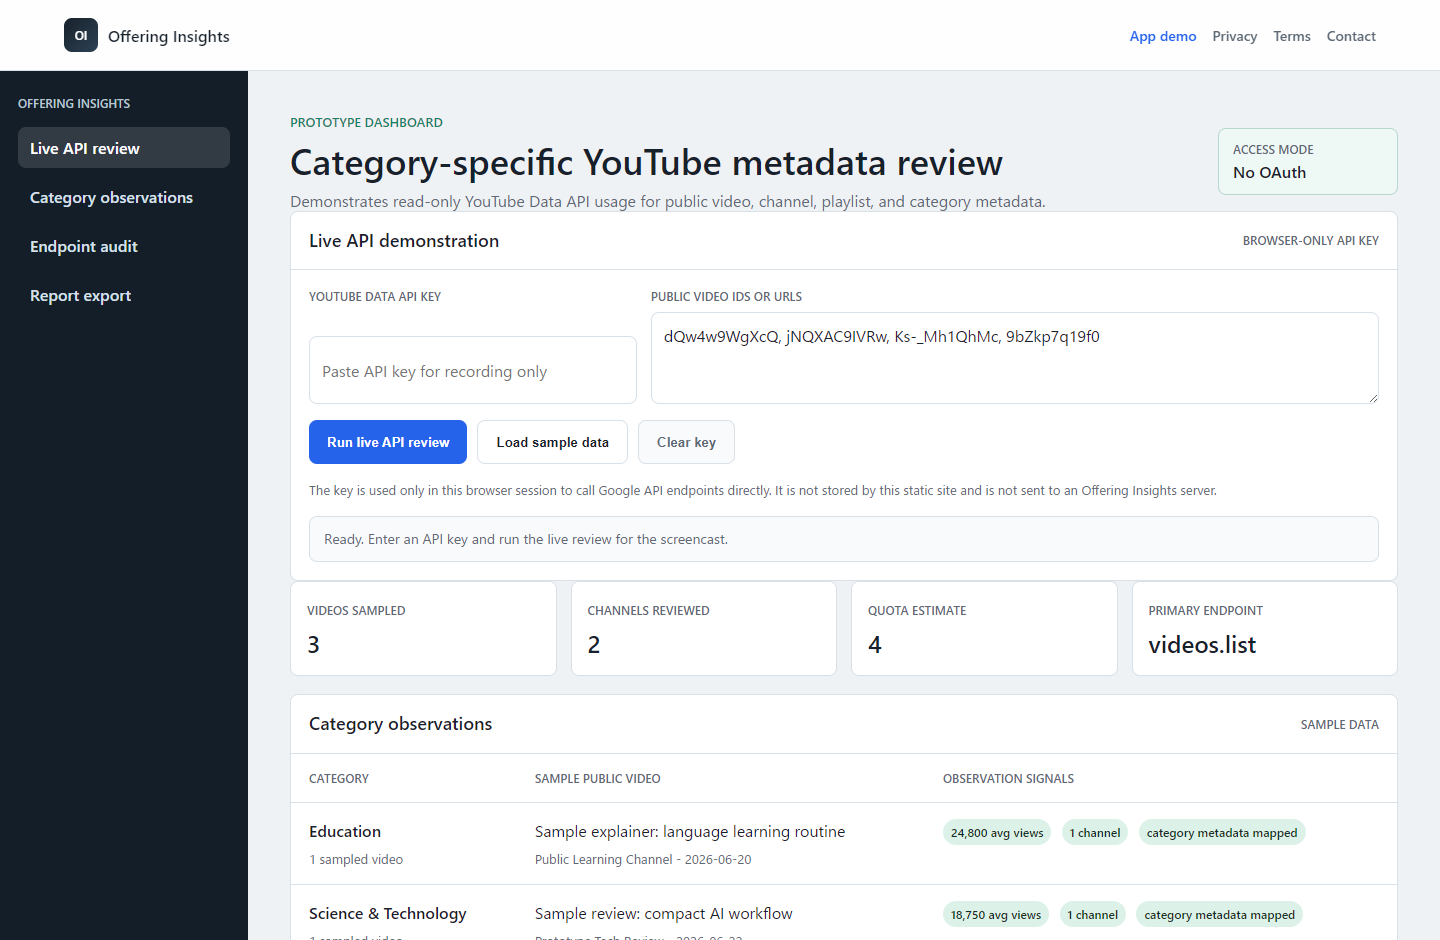
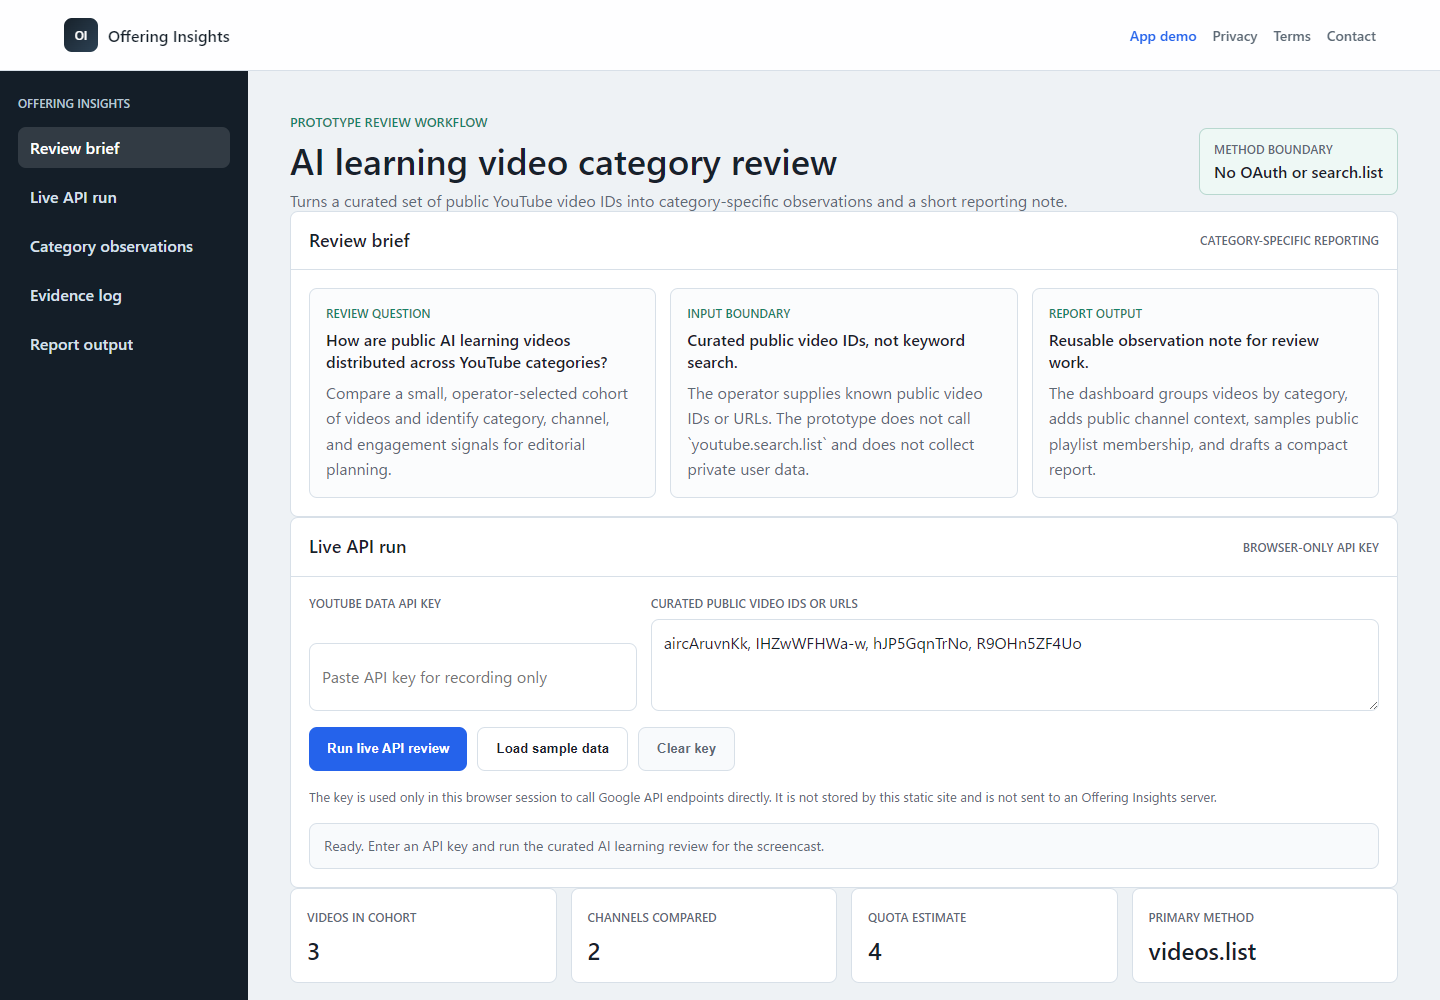
Clarify YouTube API review use case

diff --git a/script.js b/script.js
@@ -11,78 +11,78 @@ const sampleReview = {
   source: "sample",
   videos: [
     {
-      title: "Sample explainer: language learning routine",
-      channelTitle: "Public Learning Channel",
+      title: "Sample explainer: neural network foundations",
+      channelTitle: "Public Math Learning Channel",
       categoryId: "27",
       categoryName: "Education",
       publishedAt: "2026-06-20T10:00:00Z",
-      viewCount: 24800,
-      likeCount: 1120
+      viewCount: 23600000,
+      likeCount: 620000
     },
     {
-      title: "Sample review: compact AI workflow",
-      channelTitle: "Prototype Tech Review",
+      title: "Sample talk: AI in education",
+      channelTitle: "Public Conference Channel",
       categoryId: "28",
       categoryName: "Science & Technology",
       publishedAt: "2026-06-22T08:30:00Z",
-      viewCount: 18750,
-      likeCount: 940
+      viewCount: 2200000,
+      likeCount: 58000
     },
     {
-      title: "Sample tutorial: organizing research playlists",
-      channelTitle: "Editorial Planning Lab",
-      categoryId: "22",
-      categoryName: "People & Blogs",
+      title: "Sample explainer: why AI models are difficult to explain",
+      channelTitle: "Public Explainer Channel",
+      categoryId: "27",
+      categoryName: "Education",
       publishedAt: "2026-06-25T13:45:00Z",
-      viewCount: 9200,
-      likeCount: 410
+      viewCount: 12300000,
+      likeCount: 410000
     }
   ],
   channels: [
     {
-      title: "Public Learning Channel",
-      description: "Public channel metadata sample for category reporting.",
-      subscriberCount: 128000,
-      videoCount: 360
+      title: "Public Math Learning Channel",
+      description: "Public channel metadata sample for AI education reporting.",
+      subscriberCount: 6700000,
+      videoCount: 180
     },
     {
-      title: "Prototype Tech Review",
-      description: "Public channel metadata sample for technology coverage.",
-      subscriberCount: 54000,
-      videoCount: 112
+      title: "Public Conference Channel",
+      description: "Public channel metadata sample for technology and education coverage.",
+      subscriberCount: 25000000,
+      videoCount: 5200
     }
   ],
   playlistItems: [
     {
-      title: "Sample playlist item: weekly category review",
+      title: "Sample playlist item: AI learning follow-up",
       videoId: "sample-video-a",
-      channelTitle: "Public Learning Channel"
+      channelTitle: "Public Math Learning Channel"
     },
     {
-      title: "Sample playlist item: follow-up metadata check",
+      title: "Sample playlist item: related public explainer",
       videoId: "sample-video-b",
-      channelTitle: "Public Learning Channel"
+      channelTitle: "Public Math Learning Channel"
     }
   ],
   endpointLog: [
     {
       name: "youtube.videoCategories.list",
-      detail: "Sample category labels used for report grouping.",
+      detail: "Sample category labels used to separate Education from Science & Technology.",
       cost: 1
     },
     {
       name: "youtube.videos.list",
-      detail: "Sample public video metadata and statistics.",
+      detail: "Sample public metadata for the curated AI learning cohort.",
       cost: 1
     },
     {
       name: "youtube.channels.list",
-      detail: "Sample public channel context.",
+      detail: "Sample public channel context for cohort comparison.",
       cost: 1
     },
     {
       name: "youtube.playlistItems.list",
-      detail: "Sample public playlist membership.",
+      detail: "Sample public playlist membership for adjacent upload context.",
       cost: 1
     }
   ]
@@ -292,7 +292,7 @@ async function runLiveReview() {
       playlistItems,
       endpointLog
     });
-    setStatus("Live API review completed. The dashboard now shows category observations and endpoint usage.", "success");
+    setStatus("Live API review completed. The dashboard now shows the curated cohort, category observations, and endpoint evidence.", "success");
   } catch (error) {
     setStatus(error.message, "error");
   } finally {
@@ -404,8 +404,10 @@ function buildReport(review, categorySummaries, quotaEstimate) {
 
   return [
     "Offering Insights category-specific observation report",
+    "Review question: How are public AI learning videos distributed across YouTube categories, and which public channel signals help explain that distribution?",
     `Mode: ${mode}`,
     "Data boundary: public YouTube metadata only; no OAuth, no private user data, no uploads, no comment moderation.",
+    "Input method: operator-curated public video IDs or URLs; no youtube.search.list keyword lookup.",
     `Videos sampled: ${review.videos.length}`,
     `Channels reviewed: ${review.channels.length}`,
     `Estimated quota units for this review: ${quotaEstimate}`,
@@ -417,7 +419,7 @@ function buildReport(review, categorySummaries, quotaEstimate) {
     ...categoryLines,
     "",
     "Reporting use case:",
-    "The dashboard groups public videos by YouTube category, adds public channel context, reviews public playlist membership, and produces a concise research report for editorial or market research planning."
+    "The dashboard supports editorial and market research planning by comparing a deliberately selected cohort, grouping returned videos by YouTube category, adding public channel context, reviewing adjacent public playlist membership, and producing a concise observation report."
   ].join("\n");
 }
 
@@ -433,7 +435,7 @@ async function copyReport() {
 elements.runLive?.addEventListener("click", runLiveReview);
 elements.loadSample?.addEventListener("click", () => {
   renderReview(sampleReview);
-  setStatus("Sample data loaded. Use live API review for the screencast evidence.", "warning");
+  setStatus("Sample AI learning cohort loaded. Use the live API run for screencast evidence.", "warning");
 });
 elements.clearKey?.addEventListener("click", () => {
   elements.apiKey.value = "";

diff --git a/app.html b/app.html
@@ -25,30 +25,55 @@
     <main class="app-shell">
       <aside class="sidebar" aria-label="Dashboard navigation">
         <div class="sidebar-title">Offering Insights</div>
-        <button class="nav-button active" type="button">Live API review</button>
+        <button class="nav-button active" type="button">Review brief</button>
+        <button class="nav-button" type="button">Live API run</button>
         <button class="nav-button" type="button">Category observations</button>
-        <button class="nav-button" type="button">Endpoint audit</button>
-        <button class="nav-button" type="button">Report export</button>
+        <button class="nav-button" type="button">Evidence log</button>
+        <button class="nav-button" type="button">Report output</button>
       </aside>
 
       <section class="dashboard">
         <div class="dashboard-top">
           <div>
-            <p class="eyebrow">Prototype dashboard</p>
-            <h1>Category-specific YouTube metadata review</h1>
+            <p class="eyebrow">Prototype review workflow</p>
+            <h1>AI learning video category review</h1>
             <p class="dashboard-subtitle">
-              Demonstrates read-only YouTube Data API usage for public video, channel, playlist, and category metadata.
+              Turns a curated set of public YouTube video IDs into category-specific observations and a short reporting note.
             </p>
           </div>
           <div class="status-strip" aria-label="API status">
-            <span>Access mode</span>
-            <strong>No OAuth</strong>
+            <span>Method boundary</span>
+            <strong>No OAuth or search.list</strong>
           </div>
         </div>
 
+        <section class="panel brief-panel" aria-labelledby="review-brief-title">
+          <div class="panel-heading">
+            <h2 id="review-brief-title">Review brief</h2>
+            <span>Category-specific reporting</span>
+          </div>
+          <div class="brief-grid">
+            <article>
+              <span>Review question</span>
+              <strong>How are public AI learning videos distributed across YouTube categories?</strong>
+              <p>Compare a small, operator-selected cohort of videos and identify category, channel, and engagement signals for editorial planning.</p>
+            </article>
+            <article>
+              <span>Input boundary</span>
+              <strong>Curated public video IDs, not keyword search.</strong>
+              <p>The operator supplies known public video IDs or URLs. The prototype does not call `youtube.search.list` and does not collect private user data.</p>
+            </article>
+            <article>
+              <span>Report output</span>
+              <strong>Reusable observation note for review work.</strong>
+              <p>The dashboard groups videos by category, adds public channel context, samples public playlist membership, and drafts a compact report.</p>
+            </article>
+          </div>
+        </section>
+
         <section class="panel control-panel" aria-labelledby="live-api-title">
           <div class="panel-heading">
-            <h2 id="live-api-title">Live API demonstration</h2>
+            <h2 id="live-api-title">Live API run</h2>
             <span>Browser-only API key</span>
           </div>
           <div class="control-body">
@@ -58,8 +83,8 @@
                 <input id="api-key" type="password" autocomplete="off" spellcheck="false" placeholder="Paste API key for recording only">
               </label>
               <label class="field wide">
-                <span>Public video IDs or URLs</span>
-                <textarea id="video-ids" rows="3" spellcheck="false">dQw4w9WgXcQ, jNQXAC9IVRw, Ks-_Mh1QhMc, 9bZkp7q19f0</textarea>
+                <span>Curated public video IDs or URLs</span>
+                <textarea id="video-ids" rows="3" spellcheck="false">aircAruvnKk, IHZwWFHWa-w, hJP5GqnTrNo, R9OHn5ZF4Uo</textarea>
               </label>
             </div>
             <div class="action-row">
@@ -71,18 +96,18 @@
               The key is used only in this browser session to call Google API endpoints directly. It is not stored by this static site and is not sent to an Offering Insights server.
             </p>
             <div class="api-state" id="api-state" role="status" aria-live="polite">
-              Ready. Enter an API key and run the live review for the screencast.
+              Ready. Enter an API key and run the curated AI learning review for the screencast.
             </div>
           </div>
         </section>
 
         <div class="metrics-grid" aria-live="polite">
           <article class="metric">
-            <span>Videos sampled</span>
+            <span>Videos in cohort</span>
             <strong id="metric-videos">0</strong>
           </article>
           <article class="metric">
-            <span>Channels reviewed</span>
+            <span>Channels compared</span>
             <strong id="metric-channels">0</strong>
           </article>
           <article class="metric">
@@ -90,7 +115,7 @@
             <strong id="metric-quota">0</strong>
           </article>
           <article class="metric">
-            <span>Primary endpoint</span>
+            <span>Primary method</span>
             <strong id="metric-endpoint">videos.list</strong>
           </article>
         </div>
@@ -106,7 +131,7 @@
                 <thead>
                   <tr>
                     <th>Category</th>
-                    <th>Sample public video</th>
+                    <th>Representative public video</th>
                     <th>Observation signals</th>
                   </tr>
                 </thead>
@@ -127,7 +152,7 @@
             <div class="list-stack" id="channel-list">
               <article>
                 <strong>No channel data yet</strong>
-                <p>Channel context is read after video metadata returns public channel IDs.</p>
+                <p>Channel context is read after video metadata returns public channel IDs for the selected cohort.</p>
               </article>
             </div>
           </section>
@@ -153,7 +178,7 @@
             <div class="list-stack" id="playlist-list">
               <article>
                 <strong>No playlist data yet</strong>
-                <p>The live review derives the first video's public uploads playlist for a small playlistItems.list sample.</p>
+                <p>The live review derives the first channel's public uploads playlist for a small playlistItems.list sample.</p>
               </article>
             </div>
           </section>

diff --git a/styles.css b/styles.css
@@ -487,6 +487,41 @@ h3 {
   margin-bottom: 18px;
 }
 
+.brief-grid {
+  display: grid;
+  grid-template-columns: repeat(3, minmax(0, 1fr));
+  gap: 14px;
+  padding: 18px;
+}
+
+.brief-grid article {
+  padding: 16px;
+  border: 1px solid var(--line);
+  border-radius: 8px;
+  background: #fbfcfd;
+}
+
+.brief-grid span {
+  display: block;
+  margin-bottom: 8px;
+  color: var(--green);
+  font-size: 12px;
+  font-weight: 850;
+  text-transform: uppercase;
+}
+
+.brief-grid strong {
+  display: block;
+  margin-bottom: 8px;
+  line-height: 1.35;
+}
+
+.brief-grid p {
+  margin: 0;
+  color: var(--muted);
+  line-height: 1.58;
+}
+
 .metric {
   padding: 16px;
 }
@@ -618,6 +653,7 @@ textarea:focus {
 }
 
 .control-panel,
+.brief-panel,
 .wide-panel {
   grid-column: 1 / -1;
 }
@@ -851,7 +887,8 @@ td {
 
   .endpoint-grid,
   .workflow-grid,
-  .metrics-grid {
+  .metrics-grid,
+  .brief-grid {
     grid-template-columns: repeat(2, minmax(0, 1fr));
   }
 }
@@ -875,7 +912,8 @@ td {
   .status-grid,
   .workflow-grid,
   .endpoint-grid,
-  .metrics-grid {
+  .metrics-grid,
+  .brief-grid {
     grid-template-columns: 1fr;
   }
 

diff --git a/README.md b/README.md
@@ -25,7 +25,7 @@ Recommended recording flow:
 
 1. Open `https://naosan.github.io/offering-insights/app.html`.
 2. Paste the YouTube Data API key into the browser-only API key field.
-3. Keep the sample public video IDs or paste other public video URLs.
+3. Keep the curated AI learning video IDs or paste other public video URLs selected outside the API.
 4. Click `Run live API review`.
 5. Show the category observations, channel context, playlist review, endpoint audit trail, and generated report.
 6. State that the demo uses public metadata only and does not use OAuth, uploads, private user data, `search.list`, or `videos.insert`.